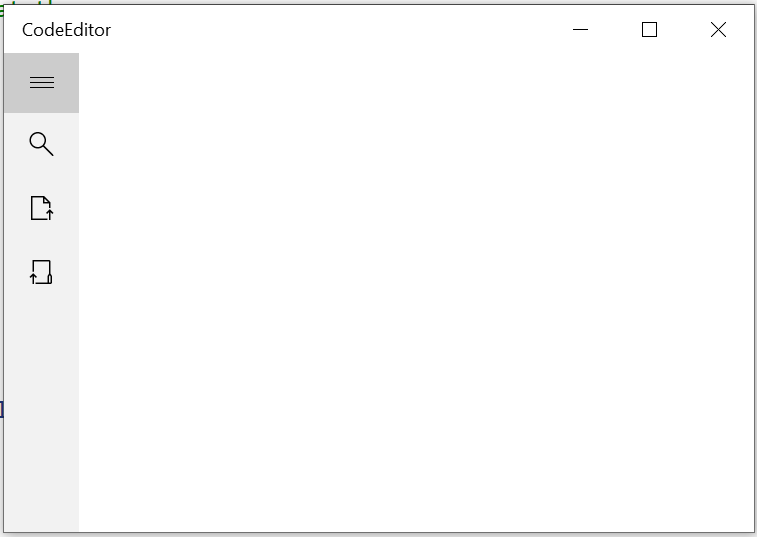
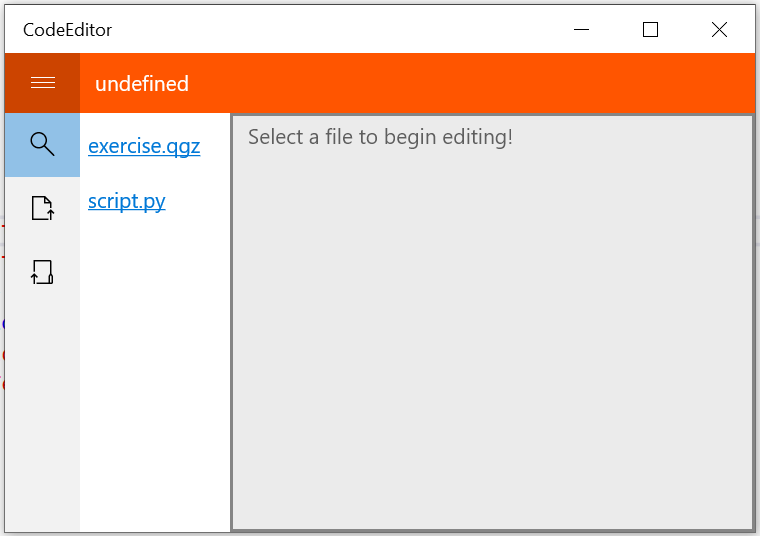
Changed names to hyperlinks; Added edit area (textbox); Added colored title bar

diff --git a/CodeEditor/MainPage.xaml b/CodeEditor/MainPage.xaml
@@ -16,7 +16,9 @@
         <x:Double x:Key="NavOpenWidth">200</x:Double>
 
         <Thickness x:Key="IconMargin" Left="-12" Top="3"></Thickness>
-        <Thickness x:Key="HamburgerOptionMargin" Left="{StaticResource NavFontSize}"></Thickness>
+        <Thickness x:Key="HamburgerOptionMargin" Left="{ StaticResource NavFontSize }"></Thickness>
+        <Thickness x:Key="TitleMargin" Left="{ StaticResource NavCloseWidth }"></Thickness>
+        
 
     </Page.Resources>
     
@@ -25,12 +27,13 @@
             <RowDefinition Height="Auto" />
             <RowDefinition Height="*" />
         </Grid.RowDefinitions>
-        
-        <RelativePanel>
-            <Button Name="HamburgerButton" Width="{ StaticResource NavCloseWidth }" Padding="0, 10" FontFamily="{ StaticResource IconFontFamily }" FontSize="{ StaticResource NavFontSize }" Content="&#xE700;" Click="HamburgerButton_Click" />
+
+        <RelativePanel Background="#f50">
+            <Button Name="HamburgerButton" Width="{ StaticResource NavCloseWidth }" Padding="0, 10" Foreground="White" FontFamily="{ StaticResource IconFontFamily }" FontSize="{ StaticResource NavFontSize }" Content="&#xE700;" Click="HamburgerButton_Click" />
+            <TextBlock Name="Title" Text="undefined" Margin="{ StaticResource TitleMargin }" Foreground="White" Padding="10" />
         </RelativePanel>
 
-        <SplitView Name="MySplitView" Grid.Row="1" DisplayMode="CompactOverlay" OpenPaneLength="{ StaticResource NavOpenWidth }" CompactPaneLength="{ StaticResource NavCloseWidth }" HorizontalAlignment="Left">
+        <SplitView Name="MySplitView" Grid.Row="1" DisplayMode="CompactOverlay" OpenPaneLength="{ StaticResource NavOpenWidth }" CompactPaneLength="{ StaticResource NavCloseWidth }" HorizontalAlignment="Stretch">
             <SplitView.Pane>
                 <ListBox SelectionMode="Single" Name="HamburgerMenu" SelectionChanged="HamburgerMenu_SelectionChanged">
                     
@@ -57,11 +60,20 @@
 
                 </ListBox>
             </SplitView.Pane>
-            
+
             <SplitView.Content>
-                <TextBlock Name="Results" />
+                <Grid>
+                    <Grid.ColumnDefinitions>
+                        <ColumnDefinition Width="Auto" MinWidth="100" MaxWidth="150" />
+                        <ColumnDefinition Width="*" />
+                    </Grid.ColumnDefinitions>
+                    <Grid x:Name="FileSelection" Grid.Column="0" />
+                    <Grid x:Name="Editor" Grid.Column="1" Background="#dddddd">
+                        <TextBox PlaceholderText="Select a file to begin editing!" />
+                    </Grid>
+                </Grid>
             </SplitView.Content>
-            
+
         </SplitView>
     </Grid>
 </Page>

diff --git a/CodeEditor/MainPage.xaml.cs b/CodeEditor/MainPage.xaml.cs
@@ -22,6 +22,28 @@ namespace CodeEditor {
     public sealed partial class MainPage : Page {
         public MainPage() {
             InitializeComponent();
+
+            //Border b = new Border();
+            //b.Background = new SolidColorBrush(Windows.UI.Colors.Red);
+
+            //RowDefinition r = new RowDefinition();
+            //r.Height = GridLength.Auto;
+
+            //TextBlock t = new TextBlock();
+            //t.Text = "t1";
+            //Grid.SetRow(t, 0);
+
+            //RowDefinition r2 = new RowDefinition();
+            //r2.Height = GridLength.Auto;
+            //TextBlock t2 = new TextBlock();
+            //t2.Text = "t2";
+            //Grid.SetRow(t, 1);
+
+            //Results.RowDefinitions.Add(r2);
+
+
+            //Results.Children.Add(t2);
+
         }
 
         /** Toggle hamburger menu */
@@ -64,11 +86,24 @@ namespace CodeEditor {
 
                 // Ensure list is not empty
                 if (files.Length > 0) {
-                    Results.Text = "";
+                    for(int i = 0; i < files.Length; i++) {
+                        RowDefinition row = new RowDefinition();
+                        row.Height = GridLength.Auto;
 
-                    // Print the names of each file to the results element
-                    foreach (StorageFile file in files) {
-                        Results.Text += file.Name + "\r\n";
+                        HyperlinkButton btn = new HyperlinkButton();
+                        btn.Content = files[i].Name;
+                        btn.Margin = new Thickness(5, 5, 5, 0);
+                        //btn.Foreground = new SolidColorBrush(Windows.UI.Colors.White);
+                        //btn.visual
+                        //btn.PointerEntered += (object sender, PointerRoutedEventArgs e) => { 
+                        //    btn.Foreground = new SolidColorBrush(Windows.UI.Colors.Gray);
+                        //};
+                        //btn.PointerEntered += PointerEnter;
+
+                        Grid.SetRow(btn, i);
+
+                        FileSelection.RowDefinitions.Add(row);
+                        FileSelection.Children.Add(btn);
                     }
                 } else {
                     // List is empty, alert user
